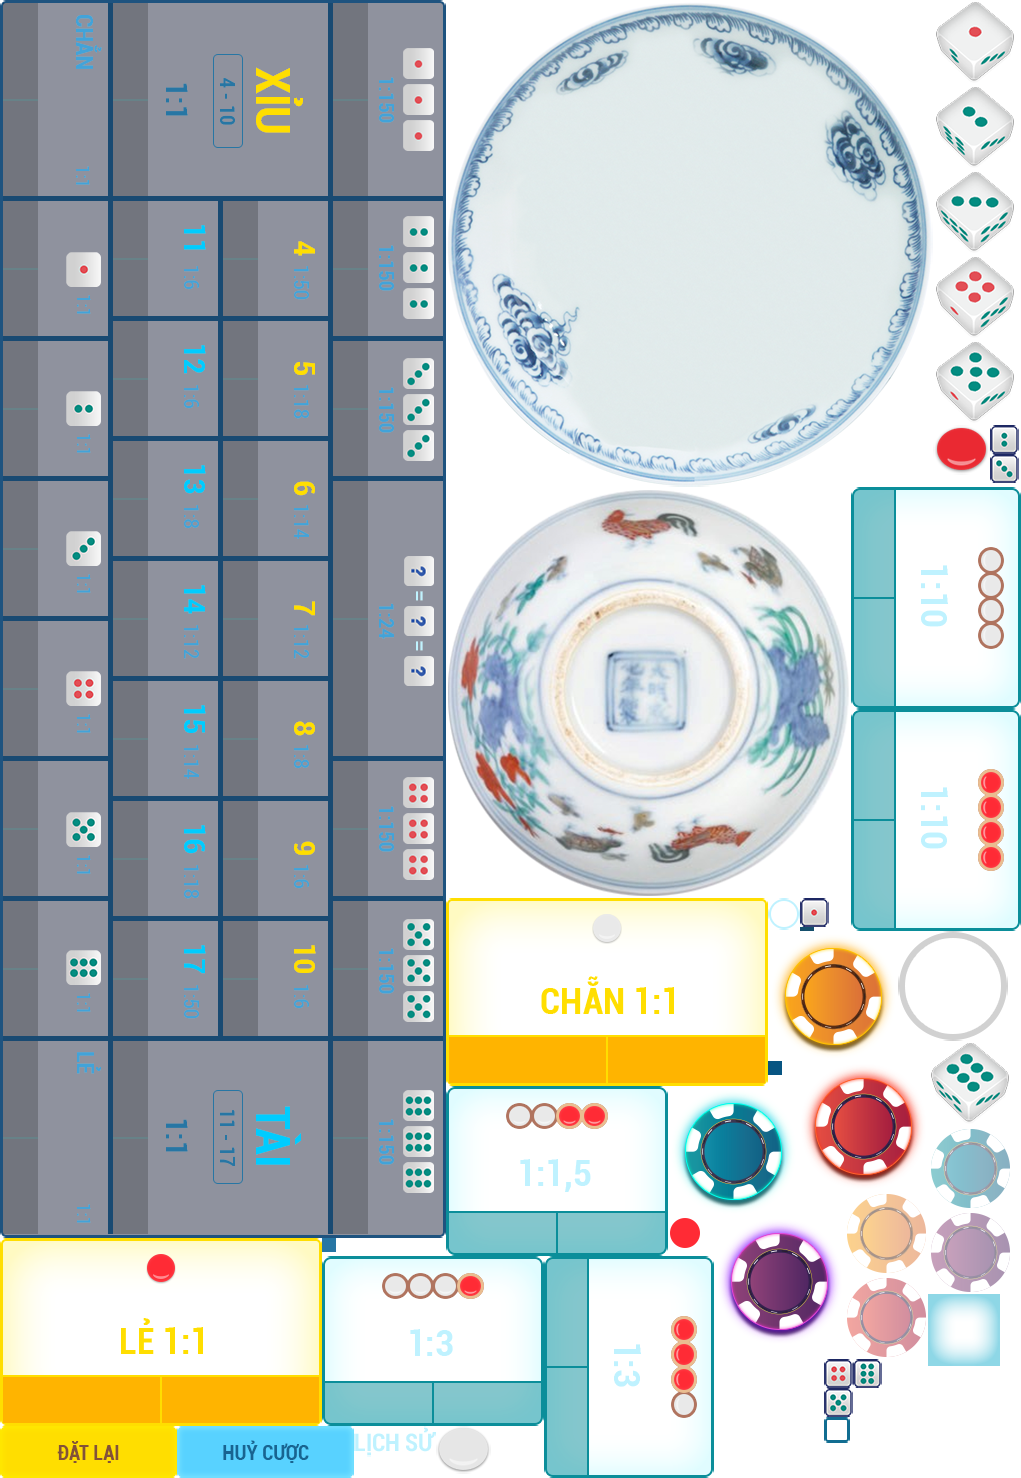
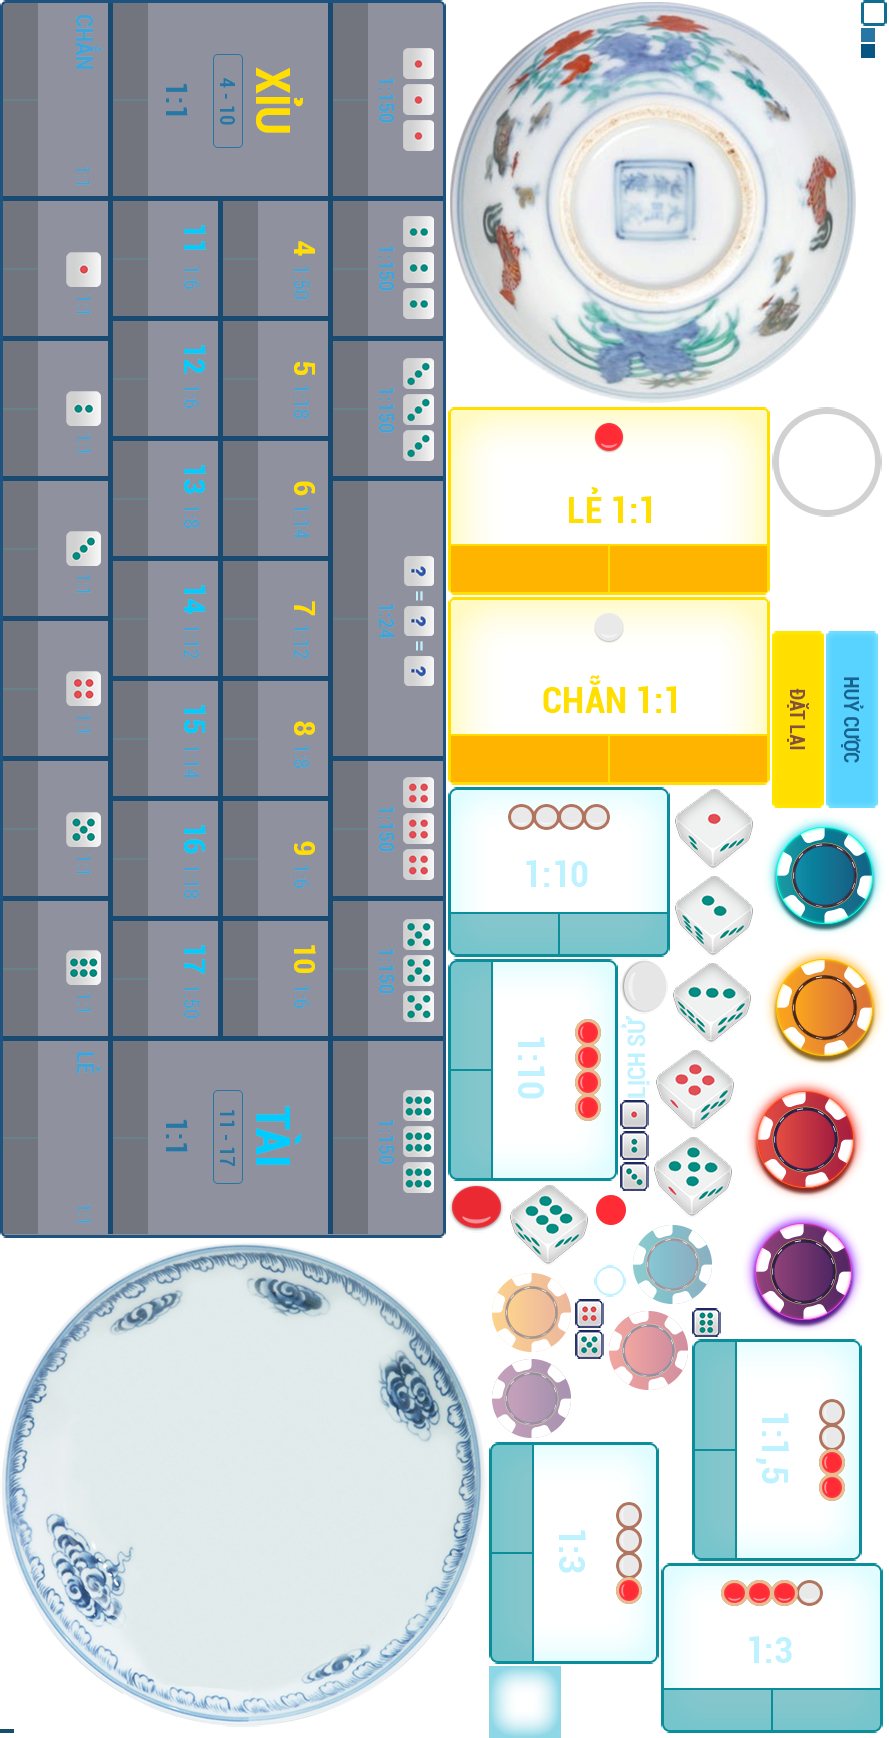
111

diff --git a/res/Game/js/MiniGame/MiniGameLayer/ChanLeLayer.js b/res/Game/js/MiniGame/MiniGameLayer/ChanLeLayer.js
@@ -283,16 +283,16 @@ var ChanLeLayer = MiniGamePopup.extend({
     },
 
     initDisk: function () {
-        var diskSprite = new cc.Sprite("#xocdia_dia.png");
+        var diskSprite = new cc.Sprite("#mntx_dia.png");
         diskSprite.setPosition(this.bg.getContentSize().width / 2 + 10, this.bg.getContentSize().height/2 +10);
         this.bg.addChild(diskSprite);
         this.diskSprite = diskSprite;
-        diskSprite.setScale(0.34);
+        // diskSprite.setScale(0.34);
         var diskNode = new cc.Node();
         diskSprite.addChild(diskNode);
         this.diskNode = diskNode;
 
-        var batSprite = new cc.Sprite("#xocdia_bat.png");
+        var batSprite = new cc.Sprite("#mntx_bat.png");
         this.batSpritePosition = cc.p(diskSprite.getContentSize().width / 2, diskSprite.getContentSize().height / 2);
         batSprite.setPosition(this.batSpritePosition);
         diskSprite.addChild(batSprite);
@@ -324,7 +324,7 @@ var ChanLeLayer = MiniGamePopup.extend({
             this.diskSprite.stopAllActions();
             this.batSprite.stopAllActions();
             /* mở bát */
-            this.diskSprite.runAction(new cc.EaseSineOut(new cc.ScaleTo(0.7, 0.5,0.5)));
+            this.diskSprite.runAction(new cc.EaseSineOut(new cc.ScaleTo(0.7, 1.2)));
             this.batSpritePosition = this.batSprite.getPosition();
             this.batSprite.runAction(new cc.Sequence(
                 new cc.DelayTime(0.9),
@@ -339,7 +339,7 @@ var ChanLeLayer = MiniGamePopup.extend({
         else{
             this.diskSprite.stopAllActions();
             this.batSprite.stopAllActions();
-            this.diskSprite.setScale(0.5);
+            this.diskSprite.setScale(1.2);
             this.batSprite.setPosition(cc.p(0.0, 450.0));
         }
 
@@ -354,7 +354,7 @@ var ChanLeLayer = MiniGamePopup.extend({
             this.diskSprite.runAction(new cc.Sequence(
                 new cc.DelayTime(1.2),
                 new cc.CallFunc(function () {
-                    thiz.diskSprite.runAction(new cc.EaseSineOut(new cc.ScaleTo(0.7, 0.34,0.34)));
+                    thiz.diskSprite.runAction(new cc.EaseSineOut(new cc.ScaleTo(0.7, 1.0)));
                     //   thiz.batSprite.setPosition(thiz.batSpritePosition);
                     // thiz.batSprite.runAction(new cc.MoveTo(1.0,thiz.batSpritePosition));
                 })
@@ -364,7 +364,7 @@ var ChanLeLayer = MiniGamePopup.extend({
             ));
         }
         else{
-            thiz.diskSprite.setScale(0.34);
+            thiz.diskSprite.setScale(1.0);
             this.batSprite.setPosition(thiz.batSpritePosition);
         }
 

diff --git a/res/Game/js/Socket/LobbyClient.js b/res/Game/js/Socket/LobbyClient.js
@@ -17,9 +17,9 @@ if (cc.sys.isNative) { //mobile
 else { //websocket
     var s_lobbyServer = s_lobbyServer || [
         // "ws://vuabaivip.com:8887/websocket"
-        // "ws://42.112.25.164:8887/websocket" // UAT
+        "ws://42.112.25.164:8887/websocket" // UAT
         // "ws://42.112.25.154:8887/websocket" //dev2 = khoi
-            "wss://gbvcity.com/lagen2-lobby/websocket"
+        //     "wss://gbvcity.com/lagen2-lobby/websocket"
 
     ];
 }
